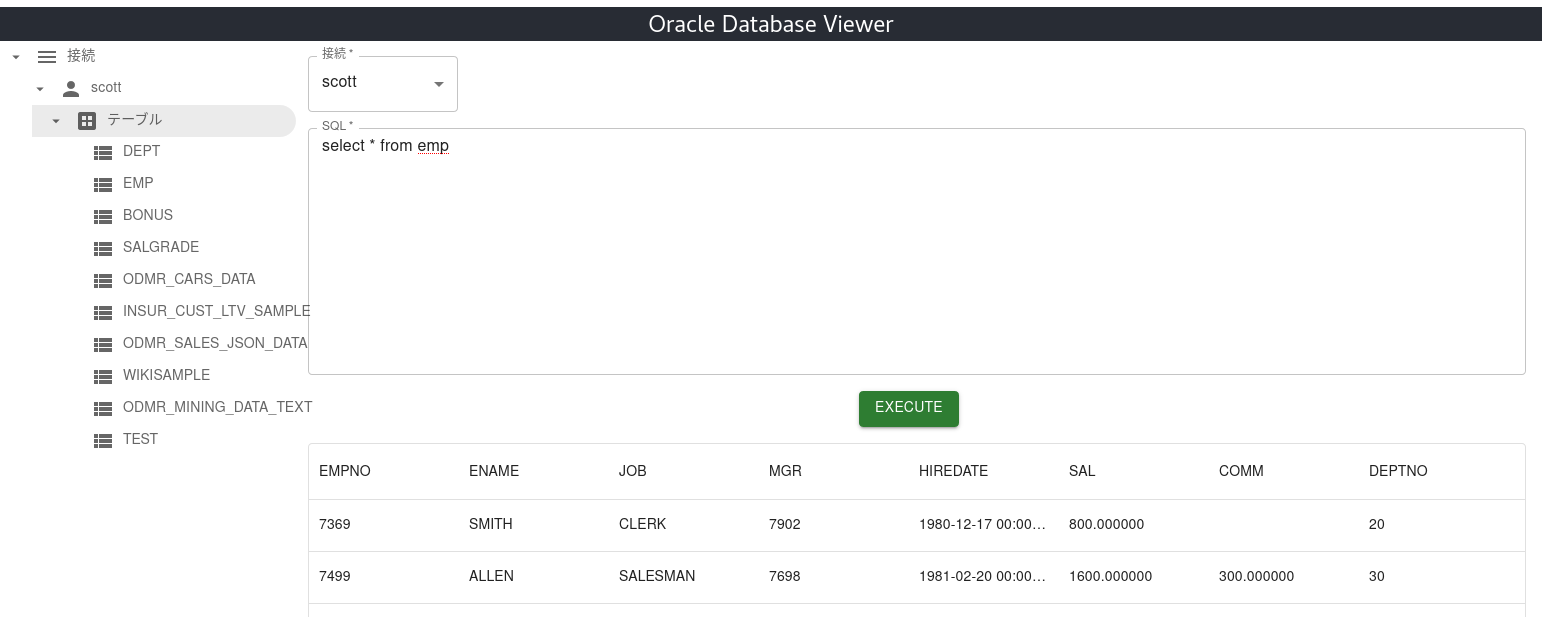
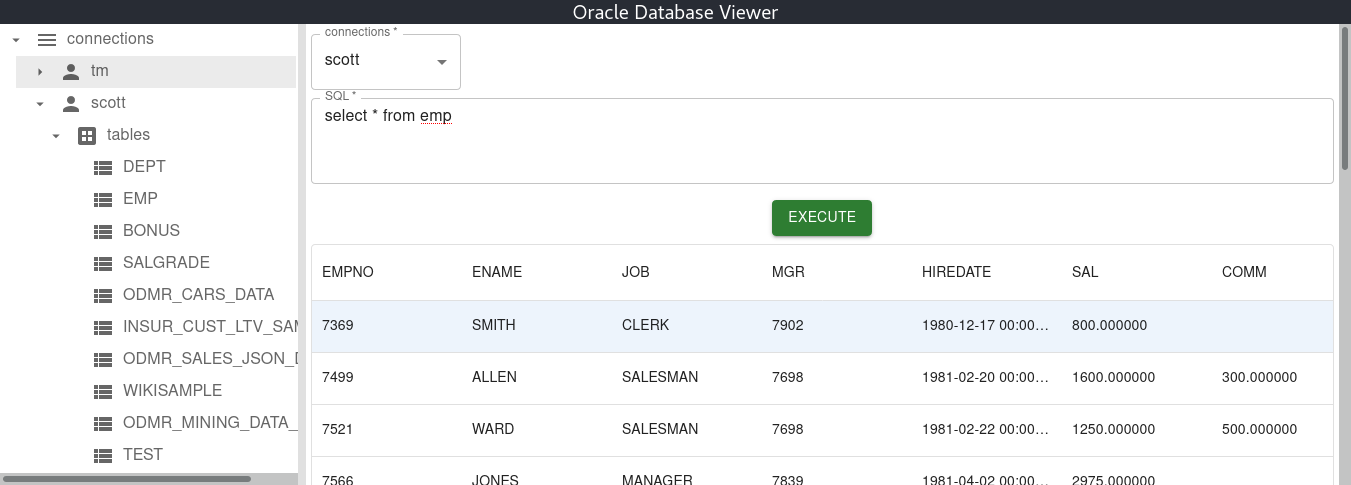
Add client i18n

diff --git a/client/src/MyTreeView.js b/client/src/MyTreeView.js
@@ -15,6 +15,7 @@ import ViewListIcon from '@mui/icons-material/ViewList';
 import Menu from '@mui/material/Menu';
 import MenuItem from '@mui/material/MenuItem';
 import {Mode as ConnectionSettingsMode, default as ConnectionSettings} from './ConnectionSettings';
+import { useTranslation } from 'react-i18next';
 
 const StyledTreeItemRoot = styled(TreeItem)(({ theme }) => ({
   color: theme.palette.text.secondary,
@@ -104,6 +105,7 @@ export default function MyTreeView(props) {
   const [schemasRefresh, setSchemasRefresh] = React.useState(false);
   const open = Boolean(anchorEl);
   const schemas = props.schemas;
+  const { t, i18n } = useTranslation();
 
   const handlePopup = (event) => {
     event.preventDefault();
@@ -111,13 +113,13 @@ export default function MyTreeView(props) {
     while (e && e.nodeName.toUpperCase() != 'LI') e = e.parentNode;
     switch (e.getAttribute('aria-controls')) {
       case 'connect-menu' :
-        setMenuItems([{name:'追加', func: () => {handleClickOpen(ConnectionSettingsMode.New)}}]);
+        setMenuItems([{name:t("Add"), func: () => {handleClickOpen(ConnectionSettingsMode.New)}}]);
         setAnchorEl(e.children[0] || e);
         break;
       case 'schema-menu' :
         const connname = e.getAttribute('data-connname');
-        setMenuItems([{name:'変更', func: () => {handleClickOpen(ConnectionSettingsMode.Modify, connname);}},
-                    {name:'削除', func: () => {if (window.confirm('本当に削除してよろしいですか？')) {
+        setMenuItems([{name:t("Edit"), func: () => {handleClickOpen(ConnectionSettingsMode.Modify, connname);}},
+                    {name:t("Delete"), func: () => {if (window.confirm(t("Delete confirm message"))) {
                       for (let i = 0; i < schemas.length; i++) {
                         if (schemas[i].name === connname) {
                           schemas.splice(i, 1)
@@ -155,14 +157,14 @@ export default function MyTreeView(props) {
       });
       let resjson = await response.json();
       if (!response.ok) {
-        alert("エラーが発生しました。\n" + resjson['error']);
+        alert(t("An error has occurred") + "\n" + resjson['error']);
         return;
       }
       resjson['body'].forEach(data => {
         schema.tables.push({name: data[0]});
       });
     } catch (e) {
-      alert('テーブル一覧の取得に失敗しました。');
+      alert(t("Failed to get table list"));
       console.error(e);
     }
     props.updateSchema(schemas);
@@ -190,7 +192,7 @@ export default function MyTreeView(props) {
     if (setting.mode == ConnectionSettingsMode.New) {
       const exists = schemas.find(s => s.name == setting.name);
       if (exists) {
-        return `接続名'${setting.name}'はすでに存在します。`;
+        return `${t("Connection Name")}'${setting.name}'${t("Already exists")}`;
       } else {
         schemas.push({name: setting.name, userid: setting.userid, password: setting.password, dbname: setting.dbname, tables: []});
         props.updateSchema(schemas);
@@ -222,7 +224,7 @@ export default function MyTreeView(props) {
       defaultEndIcon={<div style={{ width: 24 }} />}
       sx={{ flexGrow: 1, maxWidth: 280 }}
     >
-      <StyledTreeItem nodeId="root" labelText="接続" labelIcon={MenuIcon}
+      <StyledTreeItem nodeId="root" labelText={t("connections")} labelIcon={MenuIcon}
           aria-controls="connect-menu"
           aria-expanded={open ? 'true' : undefined} aria-haspopup="true"
           onContextMenu={handlePopup}>
@@ -233,7 +235,7 @@ export default function MyTreeView(props) {
                           data-connname={schema.name}
                           onClick={handleSchemaClick}
                           onContextMenu={handlePopup}>
-            <StyledTreeItem nodeId={`${schema.name}-#tables`} labelText="テーブル" labelIcon={DatasetIcon}>
+            <StyledTreeItem nodeId={`${schema.name}-#tables`} labelText={t("tables")} labelIcon={DatasetIcon}>
               {schema.tables.map((table) => (
                 <StyledTreeItem key={`${schema.name}-${table.name}`} nodeId={`${schema.name}-${table.name}`} labelText={table.name} labelIcon={ViewListIcon}
                                 dummy={schemasRefresh ? '1' : ''}

diff --git a/client/src/ConnectionSettings.js b/client/src/ConnectionSettings.js
@@ -10,6 +10,7 @@ import DialogContentText from '@mui/material/DialogContentText';
 import DialogTitle from '@mui/material/DialogTitle';
 import { FormControl } from '@mui/material';
 import Grid from '@mui/material/Unstable_Grid2';
+import { useTranslation } from 'react-i18next';
 
 const Mode = {
   New : 0, Modify : 1
@@ -26,6 +27,7 @@ export default function ConnectionSettings(props) {
   const [passworderr, setPasswordErr] = React.useState(false);
   const [dbnameerr, setDbnameErr] = React.useState(false);
   const [message, setMessage] = React.useState(null);
+  const { t, i18n } = useTranslation();
   useEffect(() => {
     setMode(props.mode || '');
     setName(props.name || '');
@@ -51,7 +53,7 @@ export default function ConnectionSettings(props) {
     setPasswordErr((!password || !password.trim()) && (iserr = true));
     setDbnameErr((!dbname || !dbname.trim()) && (iserr = true));
     if (iserr) {
-      setMessage('値を入力してください。');
+      setMessage(t("Enter connection information"));
       return;
     }
     const ret = props.submit({mode: mode, currentname: props.name, name: name, userid: userid, password: password, dbname: dbname});
@@ -79,7 +81,7 @@ export default function ConnectionSettings(props) {
 
   return (
     <Dialog onClose={handleCancelDialog} open={props.open}>
-        <DialogTitle>{mode == Mode.New ? 'New ' : ''}Connection Settings</DialogTitle>
+        <DialogTitle>{mode == Mode.New ? t("New Connection Settings") : t("Connection Settings")}</DialogTitle>
         <FormControl required onSubmit={handleSubmit}>
           <DialogContent>
               <DialogContentText style={{color: 'red'}}>
@@ -87,22 +89,22 @@ export default function ConnectionSettings(props) {
               </DialogContentText>
               <Grid container spacing={2} columns={8}>
                 <Grid xs={8}>
-                  <TextField id="name" label="Connection Name" variant="standard" size="small" fullWidth required value={name} color={nameerr ? 'error' : 'primary'} onChange={handleChange}/>
+                  <TextField id="name" label={t("Connection Name")} variant="standard" size="small" fullWidth required value={name} color={nameerr ? 'error' : 'primary'} onChange={handleChange}/>
                 </Grid>
                 <Grid xs={8}>
-                  <TextField id="userid" label="User Id" variant="standard" size="small" fullWidth required value={userid} color={useriderr ? 'error' : 'primary'} style={{imeMode: 'inactive'}} onChange={handleChange}/>
+                  <TextField id="userid" label={t("User Id")} variant="standard" size="small" fullWidth required value={userid} color={useriderr ? 'error' : 'primary'} style={{imeMode: 'inactive'}} onChange={handleChange}/>
                 </Grid>
                 <Grid xs={8}>
-                  <TextField id="password" label="Password" variant="standard" size="small" fullWidth required type="password" value={password} color={passworderr ? 'error' : 'primary'} onChange={handleChange}/>
+                  <TextField id="password" label={t("Password")} variant="standard" size="small" fullWidth required type="password" value={password} color={passworderr ? 'error' : 'primary'} onChange={handleChange}/>
                 </Grid>
                 <Grid xs={8}>
-                  <TextField id="dbname" label="DataBase Name" variant="standard" size="small" fullWidth required value={dbname} color={dbnameerr ? 'error' : 'primary'} style={{imeMode: 'inactive'}} onChange={handleChange}/>
+                  <TextField id="dbname" label={t("DataBase Name")} variant="standard" size="small" fullWidth required value={dbname} color={dbnameerr ? 'error' : 'primary'} style={{imeMode: 'inactive'}} onChange={handleChange}/>
                 </Grid>
               </Grid>
           </DialogContent>
           <DialogActions>
-              <Button onClick={handleCancelDialog}>Cancel</Button>
-              <Button onClick={handleSubmit}>{mode == Mode.New ? 'Add' : 'Apply'}</Button>
+              <Button onClick={handleCancelDialog}>{t("Cancel")}</Button>
+              <Button onClick={handleSubmit}>{mode == Mode.New ? t("Add") : t("Apply")}</Button>
           </DialogActions>
         </FormControl>
     </Dialog>

diff --git a/client/src/i18n.js b/client/src/i18n.js
@@ -1,0 +1,72 @@
+import i18n from "i18next";
+import { initReactI18next } from "react-i18next";
+import Backend from "i18next-http-backend";
+import LanguageDetector from "i18next-browser-languagedetector";
+
+const resources = {
+  en: {
+    translation: {
+      "connections": "connections",
+      "tables": "tables",
+      "execute": "execute",
+      "new": "new",
+      "Connection Settings": "Connection Settings",
+      "New Connection Settings": "New Connection Settings",
+      "Connection Name": "Connection Name",
+      "User Id": "User Id",
+      "Password": "Password",
+      "DataBase Name": "DataBase Name",
+      "Cancel": "Cancel",
+      "Add": "Add",
+      "Edit": "Edit",
+      "Delete": "Delete",
+      "Apply": "Apply",
+      "An error has occurred": "An error has occurred.",
+      "An unexpected error has occurred": "An unexpected error has occurred.",
+      "Execution failed on sql": "Execution failed on sql.",
+      "Enter connection information": "Please enter connection information",
+      "Delete confirm message": "Are you sure you want to delete this item?",
+      "Failed to get table list": "Failed to get table list.",
+      "Already exists": " already exists.",
+    }
+  },
+  ja: {
+    translation: {
+      "connections": "接続",
+      "tables": "テーブル",
+      "execute": "実行",
+      "new": "新しい",
+      "Connection Settings": "接続設定",
+      "New Connection Settings": "新しい接続設定",
+      "Connection Name": "接続名",
+      "User Id": "ユーザID",
+      "Password": "パスワード",
+      "DataBase Name": "データベース名",
+      "Cancel": "キャンセル",
+      "Add": "追加",
+      "Edit": "変更",
+      "Delete": "削除",
+      "Apply": "反映",
+      "An error has occurred": "エラーが発生しました。",
+      "An unexpected error has occurred": "予期せぬエラーが発生しました。",
+      "Execution failed on sql": "SQLの実行に失敗しました。",
+      "Enter connection information": "値を入力してください。",
+      "Delete confirm message": "本当に削除してよろしいですか？",
+      "Failed to get table list": "テーブル一覧の取得に失敗しました。",
+      "Already exists": "はすでに存在します。",
+    }
+  }
+};
+
+i18n
+  .use(Backend)
+  .use(LanguageDetector)
+  .use(initReactI18next)
+  .init({
+    resources,
+    interpolation: {
+      escapeValue: false
+    }
+  });
+
+  export default i18n;

diff --git a/client/src/App.js b/client/src/App.js
@@ -2,6 +2,7 @@ import './App.css';
 import { DataGrid } from '@mui/x-data-grid';
 import React, { useState, useRef, useEffect } from "react";
 import { FormControl, TextField, Button, InputLabel, Select, MenuItem } from '@mui/material';
+import { useTranslation } from 'react-i18next';
 import MyTreeView from './MyTreeView';
 import MySplitter from './MySplitter';
 
@@ -14,6 +15,7 @@ function App(props) {
   const [schemasRefresh, setSchemasRefresh] = useState(false);
   const coldata = [];
   const rowdata = [];
+  const { t, i18n } = useTranslation();
 
   useEffect(() => {
     if (localStorage.schemas) {
@@ -121,9 +123,9 @@ function App(props) {
       let resjson = await response.json();
       if (!response.ok) {
         if (response.status < 500) {
-          alert("エラーが発生しました。\n" + resjson['error']);
+          alert(t("An error has occurred") + "\n" + resjson['error']);
         } else {
-          alert("予期せぬエラーが発生しました。\n" + resjson['error']);
+          alert(t("An unexpected error has occurred") + "\n" + resjson['error']);
         }
         return;
       }
@@ -145,7 +147,7 @@ function App(props) {
       setRows(rowdata);
       setTimeout(() => setColumnEventHandler(), 500);
     } catch (e) {
-      alert('SQLの実行に失敗しました。');
+      alert(t("Execution failed on sql"));
       console.error(e);
     }
   }
@@ -179,12 +181,12 @@ function App(props) {
       <MySplitter/>
       <main className="App-main">
         <FormControl required fullWidth sx={{mb: 1}}>
-          <InputLabel id="connection-label">接続</InputLabel>
+          <InputLabel id="connection-label">{t("connections")}</InputLabel>
           <Select
             labelId="connection-label"
             id="connection"
             value={connection}
-            label="接続"
+            label={t("connections")}
             onChange={handleConnectionChange}
             style={{width: "10%", minWidth: "150px", textAlign: "left"}}
           >
@@ -198,7 +200,7 @@ function App(props) {
         </FormControl>
         <FormControl sx={{m: 1}}>
           <Button variant="contained" color="success" onClick={handleSubmit}>
-            execute
+          {t("execute")}
           </Button>
         </FormControl>
         <FormControl fullWidth sx={{mb: 1}}>

diff --git a/client/src/index.js b/client/src/index.js
@@ -1,6 +1,7 @@
 import React from 'react';
 import ReactDOM from 'react-dom/client';
 import './index.css';
+import './i18n';
 import App from './App';
 import reportWebVitals from './reportWebVitals';
 
